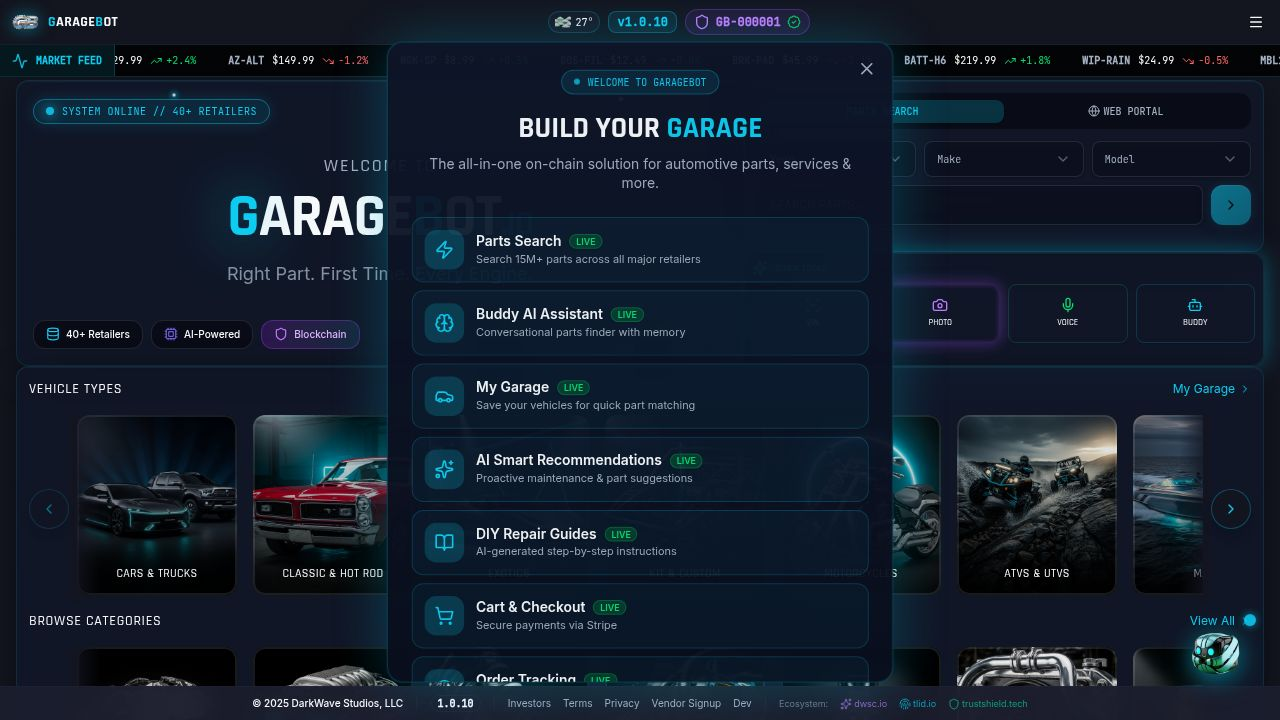
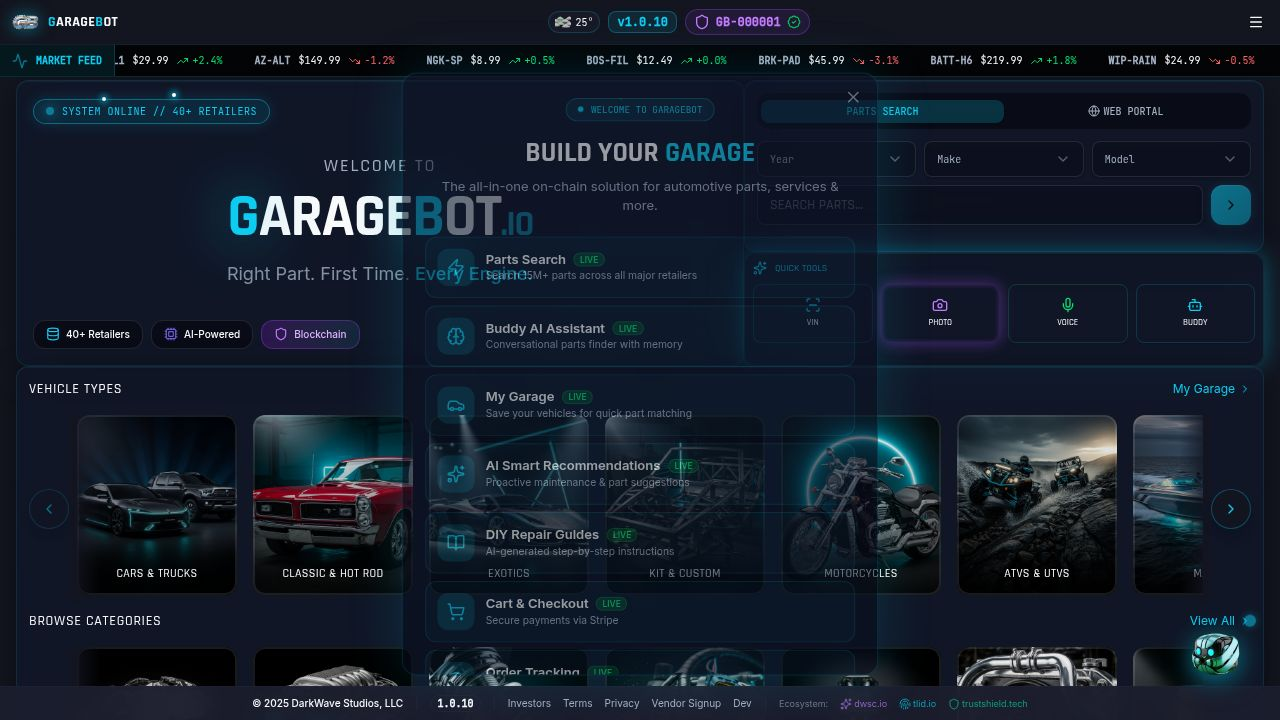
Update AI mascot dialogue to a rectangular shape and add quick action buttons
Modify the AI mascot's welcome message styling to a rectangular shape and introduce quick action buttons for user interaction.

Replit-Commit-Author: Agent
Replit-Commit-Session-Id: f1166ccb-9333-4ee3-b37c-47b90f1a2bfe
Replit-Commit-Checkpoint-Type: full_checkpoint
Replit-Commit-Event-Id: 701f7083-22e2-485e-8f21-f9596828e350
Replit-Commit-Screenshot-Url: https://storage.googleapis.com/screenshot-production-us-central1/61f82902-728d-4d48-9085-7700c909b4d3/f1166ccb-9333-4ee3-b37c-47b90f1a2bfe/9bPkPs6

diff --git a/client/src/components/AIMascot.tsx b/client/src/components/AIMascot.tsx
@@ -785,57 +785,66 @@ export default function AIMascot({ mascotName = "Buddy" }: AIMascotProps) {
             style={{ width: '280px' }}
           >
             <div 
-              className="relative rounded-2xl p-5"
+              className="relative rounded-lg p-5"
               style={{
                 background: '#0a0a0f',
-                border: '3px solid hsl(var(--primary))',
-                boxShadow: '0 8px 40px rgba(6, 182, 212, 0.5), 0 0 0 1px rgba(6, 182, 212, 0.2)',
+                border: '2px solid hsl(var(--primary))',
+                boxShadow: '0 4px 24px rgba(6, 182, 212, 0.3), 0 0 0 1px rgba(6, 182, 212, 0.15)',
               }}
             >
               <button 
                 onClick={dismissWelcome}
-                className="absolute -top-3 -right-3 w-7 h-7 rounded-full flex items-center justify-center"
+                className="absolute -top-2 -right-2 w-6 h-6 rounded flex items-center justify-center"
                 style={{
                   background: '#0a0a0f',
                   border: '2px solid hsl(var(--primary))',
                 }}
               >
-                <X className="w-4 h-4 text-primary" />
+                <X className="w-3 h-3 text-primary" />
               </button>
               <div className="flex items-start gap-3">
                 <img 
                   src={buddyCubeIcon} 
                   alt="Buddy" 
-                  className="w-12 h-12 shrink-0"
-                  style={{ filter: 'drop-shadow(0 2px 6px rgba(6, 182, 212, 0.5))' }}
+                  className="w-10 h-10 shrink-0"
+                  style={{ filter: 'drop-shadow(0 2px 4px rgba(6, 182, 212, 0.4))' }}
                 />
-                <div>
-                  <p className="text-sm font-tech text-primary font-bold mb-1">Hey there!</p>
+                <div className="flex-1">
+                  <p className="text-xs font-tech text-primary font-bold mb-1 uppercase tracking-wide">BUDDY</p>
                   <p className="text-sm leading-relaxed text-foreground">
-                    I'm {mascotName}, your garage assistant. Tap me anytime you need help finding parts or repairs!
+                    Hi! I'm here to help you find the right part, first time. What's your ride?
                   </p>
                 </div>
               </div>
-              {/* Speech bubble tail */}
-              <div 
-                className="absolute -bottom-3 right-8"
-                style={{
-                  width: 0, height: 0,
-                  borderLeft: '12px solid transparent',
-                  borderRight: '12px solid transparent',
-                  borderTop: '12px solid hsl(var(--primary))',
-                }}
-              />
-              <div 
-                className="absolute -bottom-2 right-8"
-                style={{
-                  width: 0, height: 0,
-                  borderLeft: '10px solid transparent',
-                  borderRight: '10px solid transparent',
-                  borderTop: '10px solid #0a0a0f',
-                  marginLeft: '2px',
-                }}
-              />
+              <div className="flex flex-wrap gap-2 mt-3">
+                <button 
+                  onClick={() => { dismissWelcome(); setIsOpen(true); }}
+                  className="text-xs px-3 py-1.5 rounded bg-primary/10 border border-primary/30 text-primary hover:bg-primary/20 transition-colors"
+                >
+                  Find brake pads
+                </button>
+                <button 
+                  onClick={() => { dismissWelcome(); setIsOpen(true); }}
+                  className="text-xs px-3 py-1.5 rounded bg-primary/10 border border-primary/30 text-primary hover:bg-primary/20 transition-colors"
+                >
+                  Oil filter
+                </button>
+                <button 
+                  onClick={() => { dismissWelcome(); setIsOpen(true); }}
+                  className="text-xs px-3 py-1.5 rounded bg-primary/10 border border-primary/30 text-primary hover:bg-primary/20 transition-colors"
+                >
+                  ATV carburetor
+                </button>
+              </div>
+              <div className="flex items-center gap-2 mt-3 pt-3 border-t border-primary/20">
+                <MessageCircle className="w-4 h-4 text-muted-foreground" />
+                <input 
+                  type="text"
+                  placeholder="Describe what you need..."
+                  className="flex-1 bg-transparent text-sm text-muted-foreground placeholder:text-muted-foreground/50 outline-none"
+                  onFocus={() => { dismissWelcome(); setIsOpen(true); }}
+                />
+              </div>
             </div>
           </motion.div>
         )}
